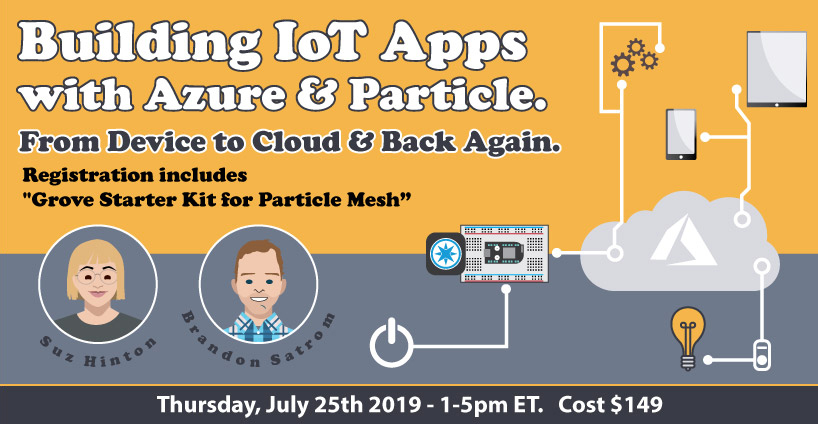
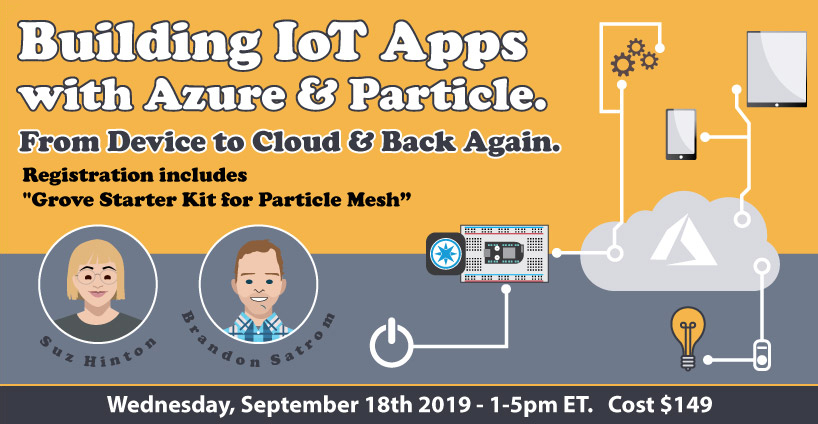
Updated info

Changed region(s): [[0.1222, 0.9198, 0.8863, 0.9811]]

diff --git a/content/events/building-iot-apps-2019.md b/content/events/building-iot-apps-2019.md
@@ -1,14 +1,14 @@
 ---
 title: "Building IoT Apps with Azure & Particle"
-date: "2019-07-25"
+date: "2019-09-18"
 menu:
   main:
     parent: "upcoming"
     name: "IoT Training 2019"
 categories:
     - IoT
-starttime: "7/25 1:00pm EST"
-endtime: "7/25 5:00pm EST"
+starttime: "9/18 1:00pm EST"
+endtime: "9/18 5:00pm EST"
 days: 1
 location: "Online"
 cost: "$149"
@@ -16,7 +16,7 @@ homepage_banner: "Building-IoT-Apps-with-Azure-and-Particle.jpg"
 short_desc: "Suz Hinton and Brandon Satrom show how to build IoT applications using Particle devices and Azure IoT Hub and IoT Central for cloud intelligence."
 description: "In this workshop, Suz Hinton and Brandon Satrom will share one approach for building IoT applications: using Particle for hardware and backhaul, and Azure IoT Hub and IoT Central to power cloud intelligence."
 embed_url: https://www.crowdcast.io/e/building-iot-apps-with
-draft: true
+draft: false
 featured: true
 ---
 
@@ -68,7 +68,7 @@ In this workshop, Suz Hinton and Brandon Satrom will share one approach for buil
 
 <h2 style="color: #FFF;">Hardware included!</h2>
 
-<p>Everyone who registers by July 18th gets a <a href="https://store.particle.io/products/grove-starter-kit" style="color: #f0cc9b; text-decoration:underline;">Grove Starter Kit for Particle Mesh</a> (retail cost is $35).</p>
+<p>Everyone who registers by September 10th gets a <a href="https://store.particle.io/products/grove-starter-kit" style="color: #f0cc9b; text-decoration:underline;">Grove Starter Kit for Particle Mesh</a> (retail cost is $35).</p>
 
 </div>
 
